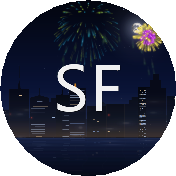
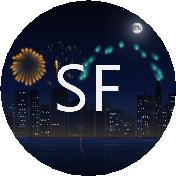
Sierra al fondo, volumen 3D en los edificios y color sobrio
Cinco cosas pedidas, tomando como referencia como se ve de verdad una ciudad
grande de noche.

SIERRA AL FONDO. Va dentro del cielo horneado, y ahi esta la gracia: los
fuegos se dibujan despues del cielo y antes de la ciudad, asi que estallan
por delante de la montana y por detras de los edificios. Esa capa intermedia
da mas profundidad que cualquier degradado. Dos cordilleras por
desplazamiento del punto medio, con semilla fija para que no cambien al
redimensionar.

VOLUMEN 3D. Algunos edificios ensenan dos caras: la que no mira al
observador va mas oscura, con una arista viva entre ambas. Sin eso una
fachada sola se lee como recorte de cartulina. Las ventanas no se pintan en
la cara oscura, o el volumen se desharia.

COLOR MAS SOBRIO. La paleta anterior era de colores francos y la ciudad
parecia pintada a mano. En una foto nocturna las fachadas son casi neutras y
el color lo ponen las luces, no la pared: ahora son siete grises con apenas
una insinuacion de tono, y ademas atenuados por un factor unico que es facil
de mover.

EDIFICIOS APAGADOS DE VERDAD. Tenian hasta cinco ventanas encendidas, que no
es estar a oscuras. Ahora una o dos, y tres de cada diez sin ninguna.

TORRE DESPROPORCIONADA. El multiplicador de hito se aplicaba sobre una altura
ya alta y sin acotar: salia una torre del doble que todo lo demas, que no
destacaba sino que descuadraba la escena. Multiplicador mas corto y tope al
34 % de la altura.
[…]

diff --git a/src/j4f/Escenario.java b/src/j4f/Escenario.java
@@ -104,14 +104,23 @@ public class Escenario {
      * escena tiene que seguir siendo de noche.
      */
     private static final Color[] PALETA_FACHADAS = {
-        new Color(0x14, 0x2E, 0x3C),   // azul petroleo
-        new Color(0x24, 0x18, 0x3E),   // violeta profundo
-        new Color(0x0E, 0x2E, 0x2A),   // verde abeto
-        new Color(0x36, 0x1C, 0x2A),   // ciruela
-        new Color(0x32, 0x26, 0x14),   // ambar apagado
-        new Color(0x1A, 0x24, 0x44),   // indigo
-        new Color(0x30, 0x18, 0x18)    // teja oscura
+        new Color(0x1A, 0x22, 0x33),   // gris azulado
+        new Color(0x20, 0x22, 0x30),   // gris neutro frio
+        new Color(0x1E, 0x20, 0x2A),   // pizarra
+        new Color(0x24, 0x22, 0x28),   // gris tibio
+        new Color(0x18, 0x20, 0x30),   // azul apagado
+        new Color(0x26, 0x24, 0x26),   // hormigon de noche
+        new Color(0x1C, 0x24, 0x2E)    // verdoso muy leve
     };
+
+    /**
+     * Cuanto se deja notar el tono de fachada.
+     *
+     * En una foto nocturna de verdad las fachadas son casi neutras: el color
+     * lo ponen las luces, no la pared. Con la paleta a plena fuerza la ciudad
+     * parecia pintada a mano, asi que el tono queda como una insinuacion.
+     */
+    private static final float FUERZA_TONO_FACHADA = 0.55f;
 
     private static final Color EDIFICIO_OSCURO = new Color(0x04, 0x06, 0x0F);
     private static final Color EDIFICIO_CLARO = new Color(0x0A, 0x10, 0x24);
@@ -293,6 +302,7 @@ public class Escenario {
         g.setComposite(Destello.mezcla(0.10f));
         g.drawImage(domo, (ancho - dw2) / 2, yHorizonte - dh2 / 2, dw2, dh2, null);
 
+        pintarMontanas(g);
         pintarLuna(g);
 
         g.dispose();
@@ -335,6 +345,88 @@ public class Escenario {
 
     /** Cuanto se agranda el disco antes de reducirlo, para suavizar bordes. */
     private static final int SUPERMUESTREO_LUNA = 4;
+
+    /** Cordilleras al fondo. Dos, para que haya lejania entre ellas. */
+    private static final int CORDILLERAS = 2;
+
+    /**
+     * Sierra al fondo, detras de la ciudad.
+     *
+     * Va dentro del cielo horneado, y ahi esta la gracia: los fuegos se
+     * dibujan despues del cielo y antes de la ciudad, asi que estallan por
+     * delante de la montana y por detras de los edificios. Esa sola capa
+     * intermedia da mas profundidad a la escena que cualquier degradado.
+     *
+     * El perfil sale por desplazamiento del punto medio, que es como se
+     * generan las siluetas de montana desde siempre: se parte de una recta y
+     * se va quebrando por la mitad con un desorden que decrece.
+     */
+    private void pintarMontanas(Graphics2D g) {
+        // Semilla fija: la cordillera no tiene por que cambiar al redimensionar.
+        java.util.Random rnd = new java.util.Random(0x5A17E5L);
+        for (int c = 0; c < CORDILLERAS; c++) {
+            double cercania = c / (double) Math.max(1, CORDILLERAS - 1);
+            // La de atras es mas alta y esta mas desvaida; la de delante se
+            // recorta por debajo, justo sobre los tejados.
+            // Por encima de la linea de tejados: si la cumbre queda por
+            // debajo, la sierra no asoma y no sirve de nada.
+            double cumbre = alto * (0.30 + 0.09 * cercania);
+            double falda = yHorizonte - alto * (0.02 - 0.02 * cercania);
+            double aspereza = alto * (0.075 + 0.045 * cercania);
+
+            int n = 129;
+            double[] perfil = new double[n];
+            perfil[0] = falda - (falda - cumbre) * (0.25 + rnd.nextDouble() * 0.35);
+            perfil[n - 1] = falda - (falda - cumbre) * (0.25 + rnd.nextDouble() * 0.35);
+            int paso = n - 1;
+            double amplitud = aspereza;
+            while (paso > 1) {
+                int medio = paso / 2;
+                for (int i = medio; i < n; i += paso) {
+                    double media = (perfil[i - medio] + perfil[i + medio]) / 2;
+                    perfil[i] = media + (rnd.nextDouble() - 0.5) * amplitud;
+                }
+                paso = medio;
+                amplitud *= 0.56;
+            }
+
+            // Color: la montana lejana es casi el cielo, y esa es la clave de
+            // que se lea como distancia y no como una mancha pegada.
+            // Mas oscura que el cielo a esa altura. Con un tono parecido al
+            // del cielo la sierra no se recortaba: era como si no estuviera.
+            Color tono = Destello.mezclar(
+                    new Color(0x10, 0x19, 0x3C), new Color(0x08, 0x0D, 0x22),
+                    (float) cercania);
+            g.setColor(tono);
+            java.awt.Polygon sierra = new java.awt.Polygon();
+            for (int i = 0; i < n; i++) {
+                int x = (int) Math.round(i * (double) ancho / (n - 1));
+                int y = (int) Math.round(perfil[i]);
+                if (y > falda) {
+                    y = (int) falda;
+                }
+                sierra.addPoint(x, y);
+            }
+            sierra.addPoint(ancho, (int) falda + 2);
+            sierra.addPoint(0, (int) falda + 2);
+            g.fill(sierra);
+
+            // Nieve o luz de luna en las cumbres, muy leve: solo donde la
+            // pendiente mira al cielo.
+            g.setColor(Destello.alfa(Destello.mezclar(tono, LUZ_LUNA, 0.45f),
+                    (int) (26 + 18 * cercania)));
+            for (int i = 1; i < n; i++) {
+                int x0 = (int) Math.round((i - 1) * (double) ancho / (n - 1));
+                int x1 = (int) Math.round(i * (double) ancho / (n - 1));
+                int y0 = (int) Math.round(perfil[i - 1]);
+                int y1 = (int) Math.round(perfil[i]);
+                if (y1 < y0) {   // ladera que sube hacia la derecha
+                    g.fillRect(x0, y1, Math.max(1, x1 - x0),
+                            Math.max(1, (int) (aspereza * 0.10)));
+                }
+            }
+        }
+    }
 
     private void pintarLuna(Graphics2D g) {
         double lx = ancho * 0.78;
@@ -608,7 +700,14 @@ public class Escenario {
             // Una de cada doce es un hito. Un perfil sin torres que sobresalgan
             // se lee como una tapia almenada, no como una ciudad.
             if (Azar.probabilidad(0.085)) {
-                h = (int) Math.round(h * Azar.entre(1.45, 2.10));
+                h = (int) Math.round(h * Azar.entre(1.30, 1.70));
+                // Con tope: el multiplicador se aplica sobre una altura ya
+                // alta y sin acotar salia una torre del doble que todo lo
+                // demas, que no destaca sino que descuadra la escena.
+                int tope = (int) (alto * 0.34);
+                if (h > tope) {
+                    h = tope;
+                }
             }
             if (h < 8) {
                 h = 8;
@@ -625,7 +724,7 @@ public class Escenario {
                 // parezcan tres filas de cromos.
                 Color tono = PALETA_FACHADAS[Azar.entre(0, PALETA_FACHADAS.length - 1)];
                 base = Destello.mezclar(EDIFICIO_OSCURO, tono,
-                        (float) (0.35 + 0.55 * cercania));
+                        (float) ((0.35 + 0.55 * cercania) * FUERZA_TONO_FACHADA));
                 base = Destello.mezclar(base, CALIMA_CIUDAD, calima * 0.75f);
             } else {
                 base = Destello.mezclar(EDIFICIO_OSCURO, EDIFICIO_CLARO,
@@ -647,8 +746,34 @@ public class Escenario {
                     new Color[]{base, base, pie}));
             g.fillRect(x, cima, w, h);
 
-            // Luz de canto en una arista: la ciudad ilumina los bordes.
+            // Cara lateral: un edificio visto de esquina ensena dos caras, y
+            // la que no mira al observador va mas oscura. Es lo que le da
+            // volumen; una fachada sola se lee como recorte de cartulina.
             g.setPaint(null);
+            int anchoLado = 0;
+            int ladoOscuroIzquierda = 0;
+            int ladoOscuroDerecha = 0;
+            if (w > 12 && Azar.probabilidad(0.55)) {
+                anchoLado = (int) Math.round(w * Azar.entre(0.16, 0.32));
+                boolean ladoDerecho = Azar.probabilidad(0.5);
+                int xl = ladoDerecho ? x + w - anchoLado : x;
+                g.setColor(Destello.mezclar(base, EDIFICIO_OSCURO, 0.42f));
+                g.fillRect(xl, cima, anchoLado, h);
+                // Arista viva entre las dos caras: sin ella el cambio de tono
+                // se lee como una mancha y no como un canto.
+                g.setColor(Destello.alfa(
+                        Destello.mezclar(base, RESPLANDOR_CALLE, 0.50f), 90));
+                g.fillRect(ladoDerecho ? xl : xl + anchoLado - 1, cima, 1, h);
+                if (!ladoDerecho) {
+                    // Si el lado oscuro queda a la izquierda, las ventanas
+                    // deben empezar despues de el.
+                    ladoOscuroIzquierda = anchoLado;
+                } else {
+                    ladoOscuroDerecha = anchoLado;
+                }
+            }
+
+            // Luz de canto en la arista exterior: la ciudad ilumina los bordes.
             g.setColor(Destello.alfa(Destello.mezclar(base, RESPLANDOR_CALLE, 0.55f),
                     (int) (70 + 60 * cercania)));
             g.fillRect(x, cima, 1, h);
@@ -657,7 +782,8 @@ public class Escenario {
 
             if (capa > 0) {
                 pintarVentanas(g, x, cima, w, h, pisoAlto, minVentana,
-                        vivas, cercania, calima);
+                        vivas, cercania, calima, ladoOscuroIzquierda,
+                        ladoOscuroDerecha);
             }
             // A veces el siguiente se mete por delante: en una ciudad los
             // edificios se tapan entre si, no van en fila india.
@@ -788,8 +914,15 @@ public class Escenario {
      */
     private void pintarVentanas(Graphics2D g, int x, int y, int w, int h,
             int pisoAlto, int minVentana, List<int[]> vivas,
-            double cercania, float calima) {
+            double cercania, float calima, int ladoIzq, int ladoDer) {
         g.setPaint(null);
+        // La cara lateral oscura no lleva ventanas encendidas: es la que no
+        // mira al observador, y iluminarla desharia el volumen.
+        x += ladoIzq;
+        w -= ladoIzq + ladoDer;
+        if (w < 4) {
+            return;
+        }
         int tipo = tipoEdificio(h, cercania);
         if (tipo == TIPO_OSCURO) {
             // Unas pocas luces sueltas y poco mas: tambien hace falta que
@@ -875,7 +1008,9 @@ public class Escenario {
     /** Edificio casi apagado: cuatro luces sueltas y nada mas. */
     private void pintarLucesSueltas(Graphics2D g, int x, int y, int w, int h,
             int pisoAlto, double cercania, float calima) {
-        int n = Azar.entre(0, 5);
+        // Una o dos luces, rara vez tres. Un edificio a oscuras con cinco
+        // ventanas encendidas no esta a oscuras.
+        int n = Azar.probabilidad(0.30) ? 0 : Azar.entre(1, 3);
         int vw = Math.max(1, (int) Math.round(w * 0.09));
         int vh = Math.max(1, (int) Math.round(pisoAlto * 0.9));
         for (int i = 0; i < n; i++) {
